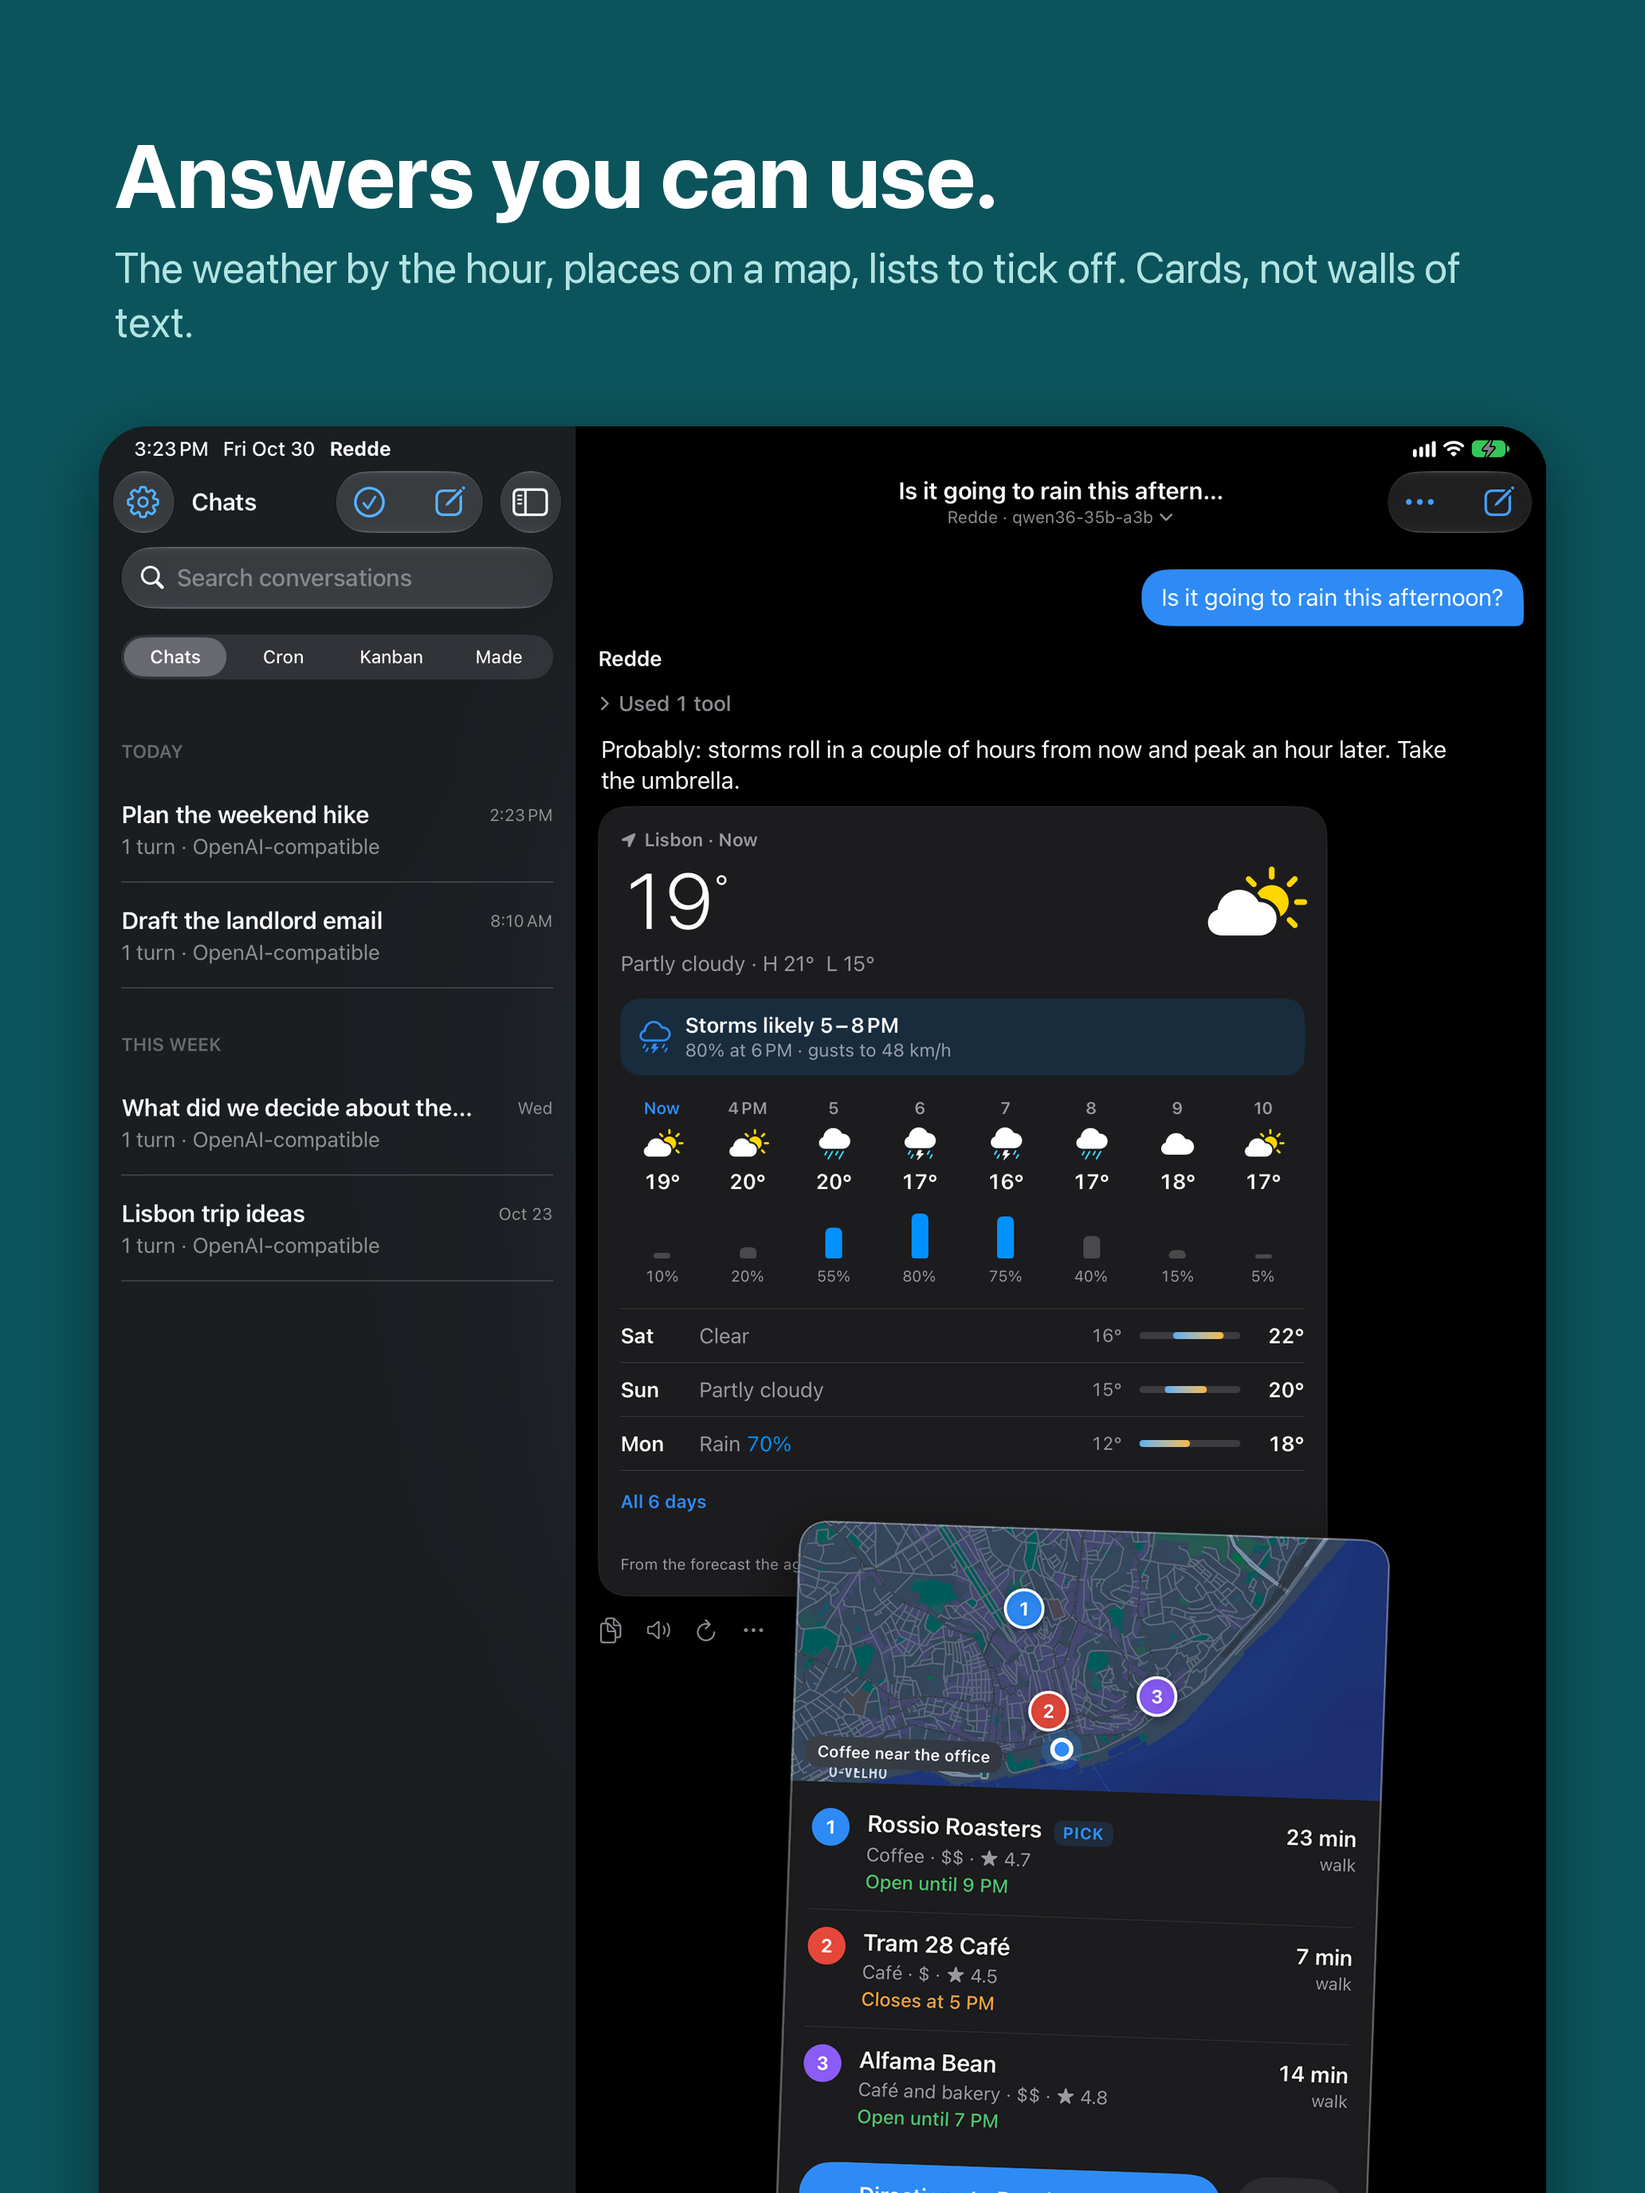
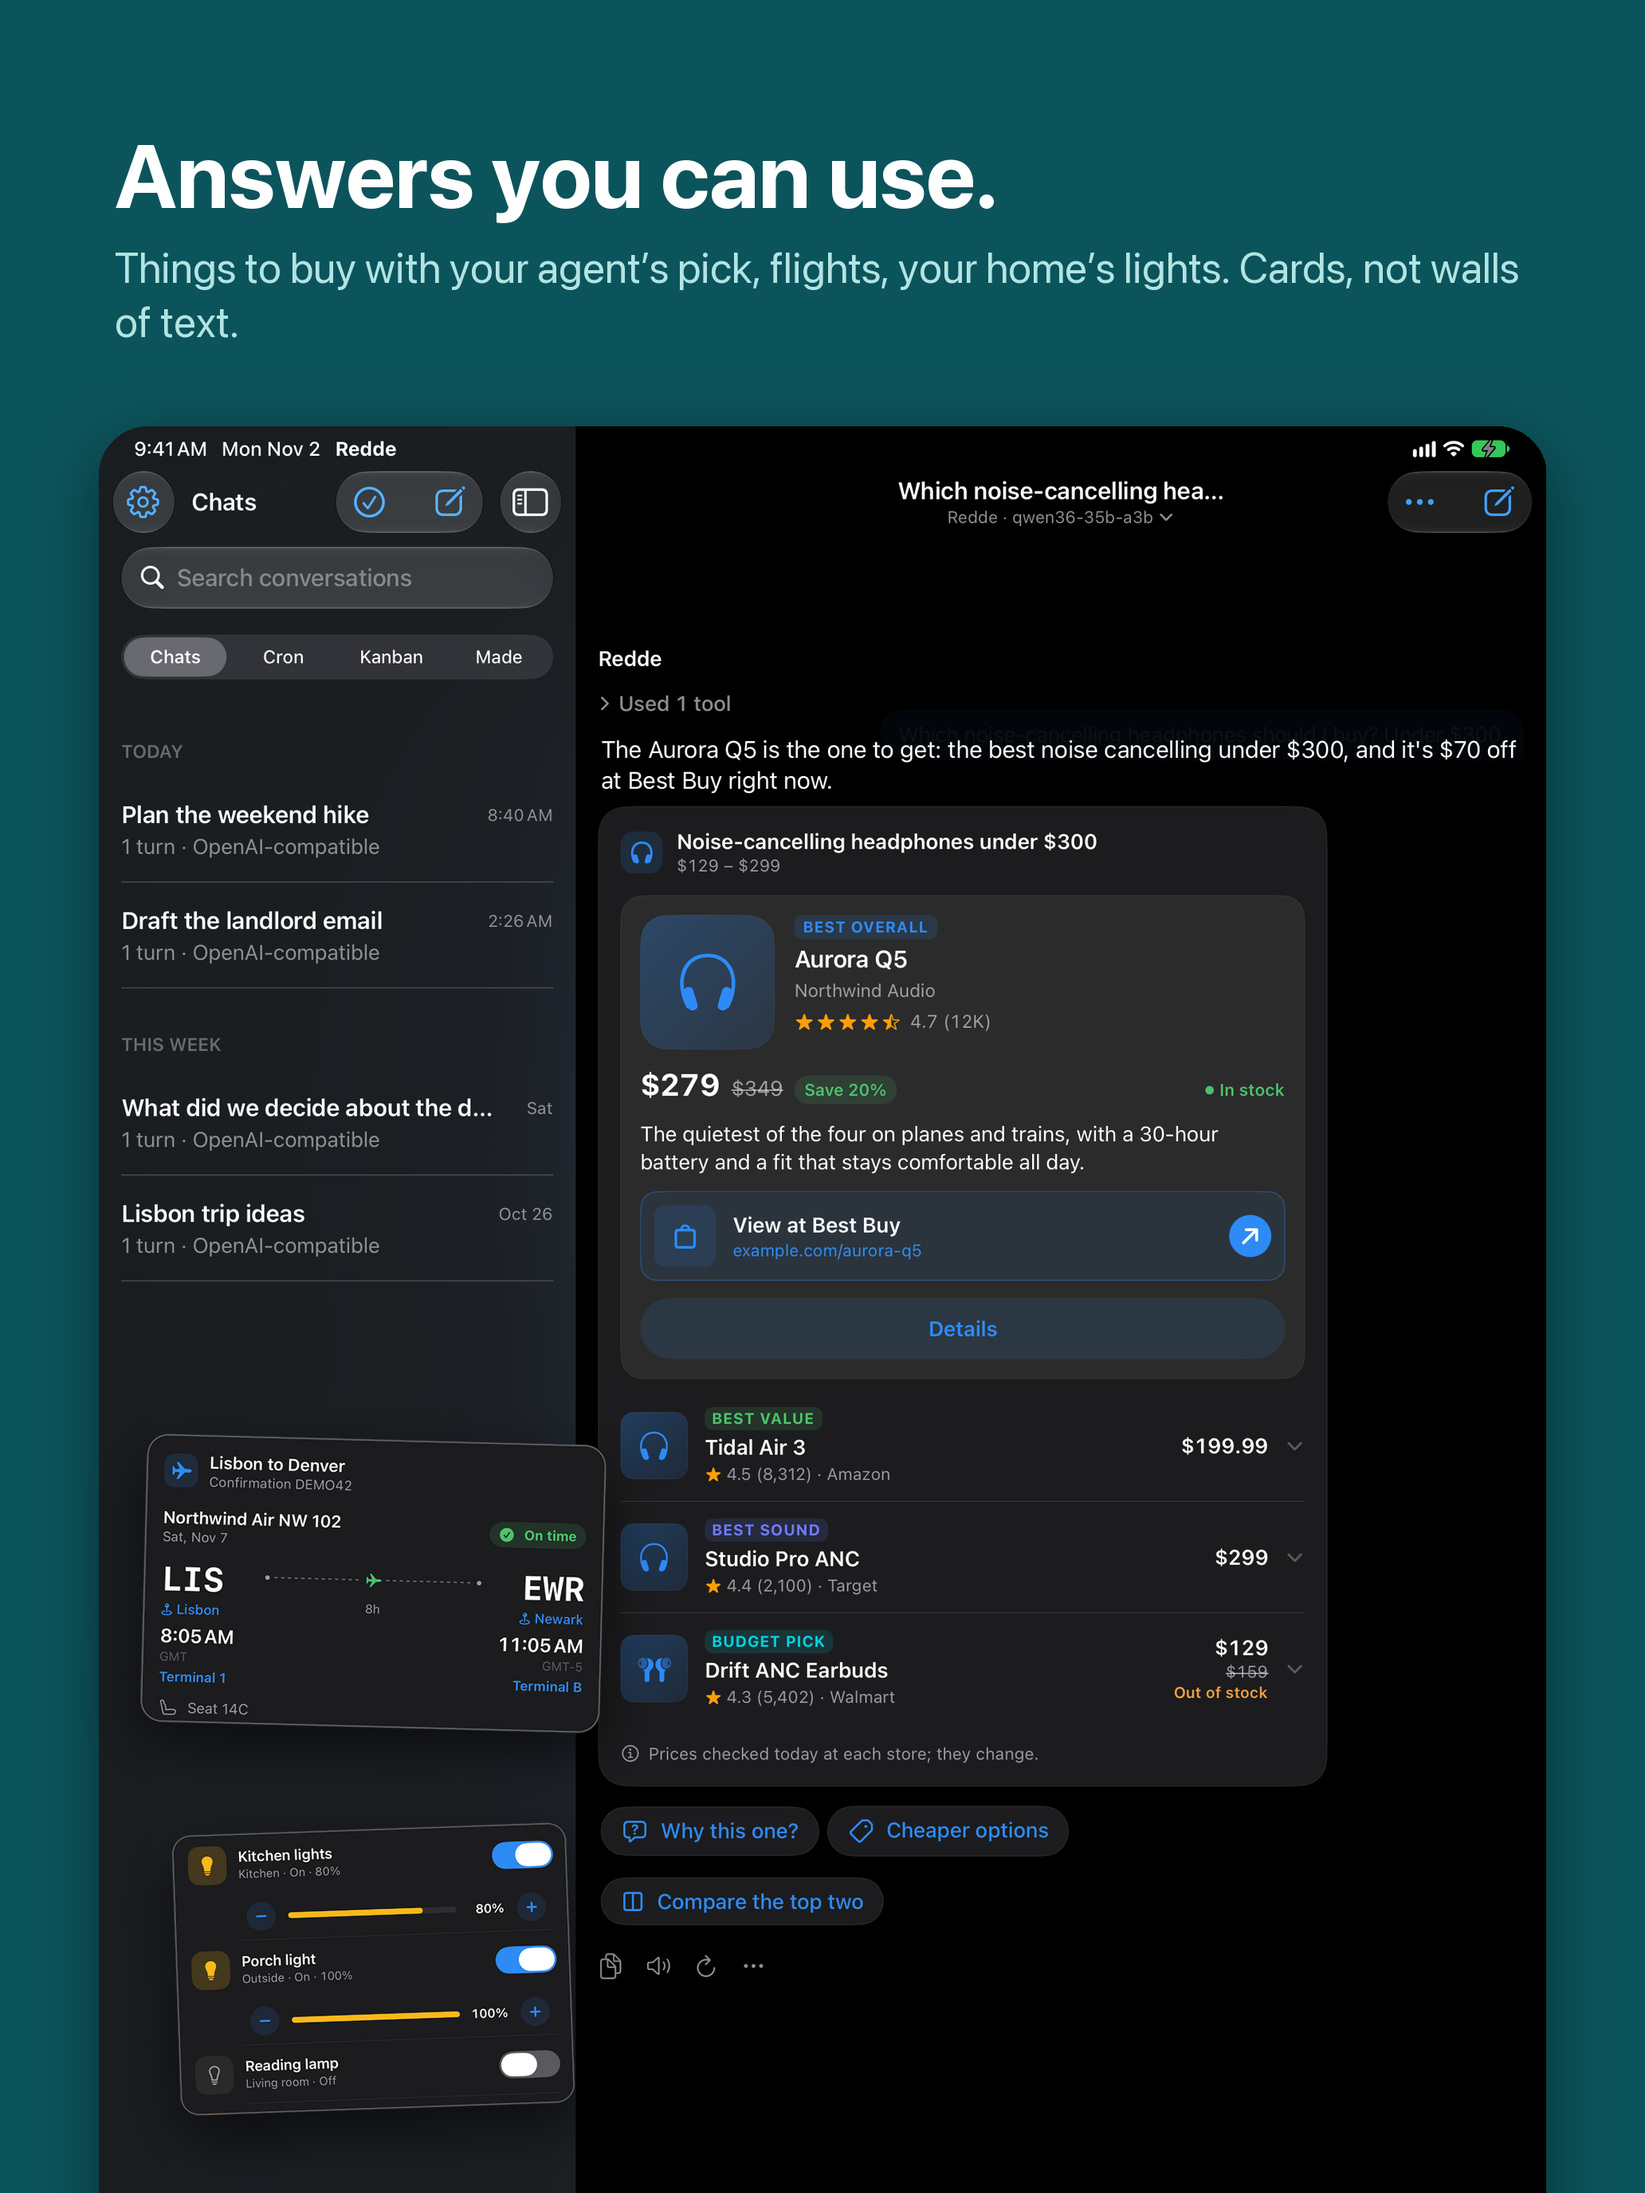
Screenshots: answers with the purchase, flight and home cards
05-answers / 05-ipad-answers show the purchase card with the agent's
pick, and the flight and home cards set over it. The iPhone's purchase
shot is taken from the card's header by StoreShotsUITests (PROMO_VIDEO=1);
compose_cards can blank the screen below a line (blank_below).

Claude-Session: https://claude.ai/code/session_01U63qtfuuYgy2JJjGLMW9Qh

diff --git a/EchoUITests/StoreShotsUITests.swift b/EchoUITests/StoreShotsUITests.swift
@@ -1,0 +1,32 @@
+import XCTest
+
+/// App Store screenshots that need the screen moved first (design/screenshots, README "2.3 slots").
+/// Skipped unless the runner sets PROMO_VIDEO=1; SHOT_DIR is where the pictures go.
+@MainActor
+final class StoreShotsUITests: XCTestCase {
+    /// 2.3.1's answers slot (`ph-purchase`): the purchase card scrolled to its own header, its top edge
+    /// at the bar's, so its title and the pick's tag show (the chat opens at the end of the reply).
+    func testPurchaseFromItsHeader() throws {
+        try XCTSkipUnless(ProcessInfo.processInfo.environment["PROMO_VIDEO"] == "1")
+        let dir = URL(fileURLWithPath: try XCTUnwrap(ProcessInfo.processInfo.environment["SHOT_DIR"]))
+        let app = XCUIApplication()
+        app.launchArguments = XCUIApplication.chatsSection + XCUIApplication.straightToChat
+            + ["-echo.demoHosts", "-transport", "chatCompletions", "-echo.demoCards", "purchase", "-theme", "standard", "-appearance", "dark"]
+        app.launch()
+        let header = app.staticTexts["Noise-cancelling headphones under $300"].firstMatch
+        XCTAssertTrue(header.waitForExistence(timeout: 30))
+        RunLoop.current.run(until: Date().addingTimeInterval(4))
+        let window = app.windows.firstMatch
+        let wanted: CGFloat = 133   // points from the top: the card's edge at the bar's
+        // One drag, in the left margin (no link under it, or a held press opens the link's menu); a
+        // drag gives up about 10 points before it moves the list.
+        let y = header.frame.minY
+        print("SHOT header at \(y)")
+        let start = window.coordinate(withNormalizedOffset: CGVector(dx: 0.025, dy: 0.4))
+        start.press(forDuration: 0.05, thenDragTo: start.withOffset(CGVector(dx: 0, dy: wanted - y + 10)), withVelocity: .slow, thenHoldForDuration: 0.4)
+        RunLoop.current.run(until: Date().addingTimeInterval(1.5))
+        print("SHOT header finally at \(header.frame.minY)")
+        RunLoop.current.run(until: Date().addingTimeInterval(3))
+        try XCUIScreen.main.screenshot().pngRepresentation.write(to: dir.appending(path: "ph-purchase.png"))
+    }
+}

diff --git a/design/screenshots/compose.py b/design/screenshots/compose.py
@@ -123,12 +123,19 @@ def compose_tools(src, dst, headline, sub, bg, fg, subfg, pad):
 PLACES = ('ph-places.png', (48, 901, 1273, 2401), 56)      # the places card: map, three numbered places
 REVIEW = ('ph-review.png', (48, 849, 1273, 2066), 56)      # the email to check before it sends
 APPROVAL = ('ph-approve.png', (48, 1551, 1273, 2529), 56)  # the approval in plain words
+FLIGHT = ('ph-flight.png', (48, 732, 1273, 1500), 56)      # the flight card's first leg (2.3.1)
+HOME = ('ph-home.png', (48, 470, 1273, 1340), 56)         # the home card's lights and the reading lamp (2.3.1)
 
-def compose_cards(src, dst, headline, sub, bg, fg, subfg, pad, cards):
+def compose_cards(src, dst, headline, sub, bg, fg, subfg, pad, cards, blank_below=None):
     """A screen with cards from other screens set over its empty lower part, each turned a little
     and shadowed (the 2.3 answer and approval slots). `cards`: (card, width as a share of the
-    picture, its centre as shares of the screen's width and height, turn in degrees)."""
+    picture, its centre as shares of the screen's width and height, turn in degrees).
+    `blank_below`: a row of the screen from which down it is the page's black, for a screen whose
+    lower part the cards cover (2.3.1's purchase card, scrolled to its top, has the chat's "Jump to
+    latest" and the reply's chips under it, which would show between the cards)."""
     shot = Image.open(src).convert('RGBA')
+    if blank_below:
+        ImageDraw.Draw(shot).rectangle((0, blank_below, shot.width, shot.height), fill=(0, 0, 0, 255))
     W, H = shot.size
     canvas = Image.new('RGBA', (W, H), bg)
     d = ImageDraw.Draw(canvas)
@@ -203,8 +210,9 @@ phone = [
   # The chat list's ideas and briefings, and a Leave-By Alert come in over them (-echo.demoLeaveBy).
   ('ph-ahead',    '03-ahead',    'Ahead of your day.',           'Ideas to swipe each morning, your week ahead, and a nudge when it’s time to leave.', CORAL, WHITE, PEACH),
   ('ph-day',      '04-day',      'Your day at a glance.',        'Ask what’s on and see it to scale, free time marked. Tap a gap to add an event.', PAPER, INK, SAND),
-  ('ph-weather',  '05-answers',  'Answers you can use.',         'The weather by the hour, places on a map, lists to tick off. Cards, not walls of text.', TEAL, WHITE, MINT,
-   [(PLACES, 0.54, (0.63, 0.805), -2.0)]),
+  # 2.3.1: things to buy (the agent's pick, prices, stock), with a flight and the home's controls over it.
+  ('ph-purchase', '05-answers',  'Answers you can use.',         'Things to buy with your agent’s pick, flights, your home’s lights. Cards, not walls of text.', TEAL, WHITE, MINT,
+   [(FLIGHT, 0.45, (0.245, 0.865), -1.5), (HOME, 0.43, (0.765, 0.855), 1.5)], 2380),
   # 2.0: the bots. Raw shots from PromoVideoUITests.testBotsShots (see README).
   ('ph-bots',     '06-bots',     'Meet the crew.',               'Each Hermes profile is a bot, with a face, a voice and a chat of its own. Start one from a template.', PLUM, WHITE, LILAC),
   ('ph-crew',     '07-crew',     'Talk to the whole crew.',      'Put bots in a group chat and they answer in turn, each in a voice of its own.', (24, 32, 46), WHITE, MIST),
@@ -216,8 +224,8 @@ pad = [
   ('pad-voice',        '02-ipad-voice','Just talk.',                   'An orb that moves with your voice. On-device speech, spoken replies, hands-free if you like.', (24, 32, 46), WHITE, MIST),
   ('pad-ahead',        '03-ipad-ahead', 'Ahead of your day.',          'Ideas to swipe each morning, your week ahead, and a nudge when it’s time to leave.', CORAL, WHITE, PEACH),
   ('pad-day',          '04-ipad-day',  'Your day at a glance.',        'Ask what’s on and see it to scale, free time marked. Tap a gap to add an event.', PAPER, INK, SAND),
-  ('pad-weather',      '05-ipad-answers', 'Answers you can use.',      'The weather by the hour, places on a map, lists to tick off. Cards, not walls of text.', TEAL, WHITE, MINT,
-   [(PLACES, 0.36, (0.68, 0.76), -2.0)]),
+  ('pad-purchase',     '05-ipad-answers', 'Answers you can use.',      'Things to buy with your agent’s pick, flights, your home’s lights. Cards, not walls of text.', TEAL, WHITE, MINT,
+   [(FLIGHT, 0.28, (0.19, 0.60), -1.5), (HOME, 0.24, (0.19, 0.80), 2.0)]),
   ('pad-bots',         '06-ipad-bots', 'Meet the crew.',               'Each Hermes profile is a bot, with a face, a voice and a chat of its own. Start one from a template.', PLUM, WHITE, LILAC),
   ('pad-crew',         '07-ipad-crew', 'Talk to the whole crew.',      'Put bots in a group chat and they answer in turn, each in a voice of its own.', (24, 32, 46), WHITE, MIST),
   ('pad-approve',      '08-ipad-approve', 'Nothing happens without you.', 'Check an email before it sends. Approvals say in plain words what will change.', CHAR, BONE, ASH,
@@ -236,7 +244,7 @@ for kind, slots in (('iphone-6.9', phone), ('ipad-13', pad)):
         if name in ZOOMED:
             compose(f'{SHOTS}/{src}.png', f'{OUT}/{kind}/{name}.png', h, s, bg, fg, sfg, True, panel=ZOOMED[name])
         elif cards:
-            compose_cards(f'{SHOTS}/{src}.png', f'{OUT}/{kind}/{name}.png', h, s, bg, fg, sfg, kind == 'ipad-13', cards[0])
+            compose_cards(f'{SHOTS}/{src}.png', f'{OUT}/{kind}/{name}.png', h, s, bg, fg, sfg, kind == 'ipad-13', *cards)
         else:
             draw = compose_tools if name.endswith('-tools') else compose
             draw(f'{SHOTS}/{src}.png', f'{OUT}/{kind}/{name}.png', h, s, bg, fg, sfg, kind == 'ipad-13')

diff --git a/design/screenshots/README.md b/design/screenshots/README.md
@@ -32,7 +32,7 @@ Not in the set from 2.3 (compose.py no longer draws it; `compose_tools` is kept)
 
 - `03-ahead` / `03-ipad-ahead`, "Ahead of your day.": the chat list's Ideas for you and Briefings decks (`-echo.demoIdeas -echo.demoBriefings -displayName Sol`), and a Leave-By Alert's banner landing over them (`-echo.demoLeaveBy`, DEBUG: a dentist's appointment, leave in five minutes, 25 minutes by car). The banner needs notifications allowed on the simulator already: run `PromoVideoUITests.testDayLeave` there once, which taps Allow. On iPad the detail pane holds the packing checklist and a booking form (`-echo.demoAsks -echo.demoAsksMore`). `capture.sh` takes a burst for the banner; pick the picture it is in.
 - `04-day` / `04-ipad-day`, "Your day at a glance.": tomorrow as a timeline (`-echo.demoAgenda tomorrow`).
-- `05-answers` / `05-ipad-answers`, "Answers you can use.": the weather card (`-echo.demoCards weather`) with the places card cut from `ph-places` (`-echo.demoCards places`) set over the screen's lower part (`compose_cards`).
+- `05-answers` / `05-ipad-answers`, "Answers you can use.": from 2.3.1 (2026-11-02) the purchase card (`-echo.demoCards purchase`: the agent's pick, prices, ratings, stock and three alternatives), with the flight card's first leg cut from `ph-flight` (`-echo.demoCards flight`) and the home card's lights cut from `ph-home` (`-echo.demoCards home`) set over it (`compose_cards`, `FLIGHT` and `HOME`): side by side over the iPhone's lower part, one above the other over the iPad's empty sidebar. On iPhone the chat opens at the end of the reply, under the card's top, so `ph-purchase` is taken by `StoreShotsUITests.testPurchaseFromItsHeader` (one drag in the left margin brings the card's header under the bar; command in capture.sh), and `compose_cards`' `blank_below` (2380) turns the screen black from just above "Prices checked" down, so "Jump to latest" and the reply's chips don't show between the two cards. `pad-purchase` is a plain launch. `compose.py <raw> design/screenshots 05-answers,05-ipad-answers` draws only these. Until then it was the weather card with the places card over it (`ph-weather`, `ph-places`, still taken).
 - `08-approve` / `08-ipad-approve`, "Nothing happens without you.": an approval in plain words (`-echo.demoApprovalCard skill`: Coder's change put in place, with the chat that asked for it above) and the email to check before it sends, cut from `ph-review` (`-echo.demoAsks -echo.demoAsksReviewOnly`), set over it: over the top of the iPhone's screen, under the card on iPad.
 - `09-ipad-backend`: the setup screen, as before, now in dark.
 
